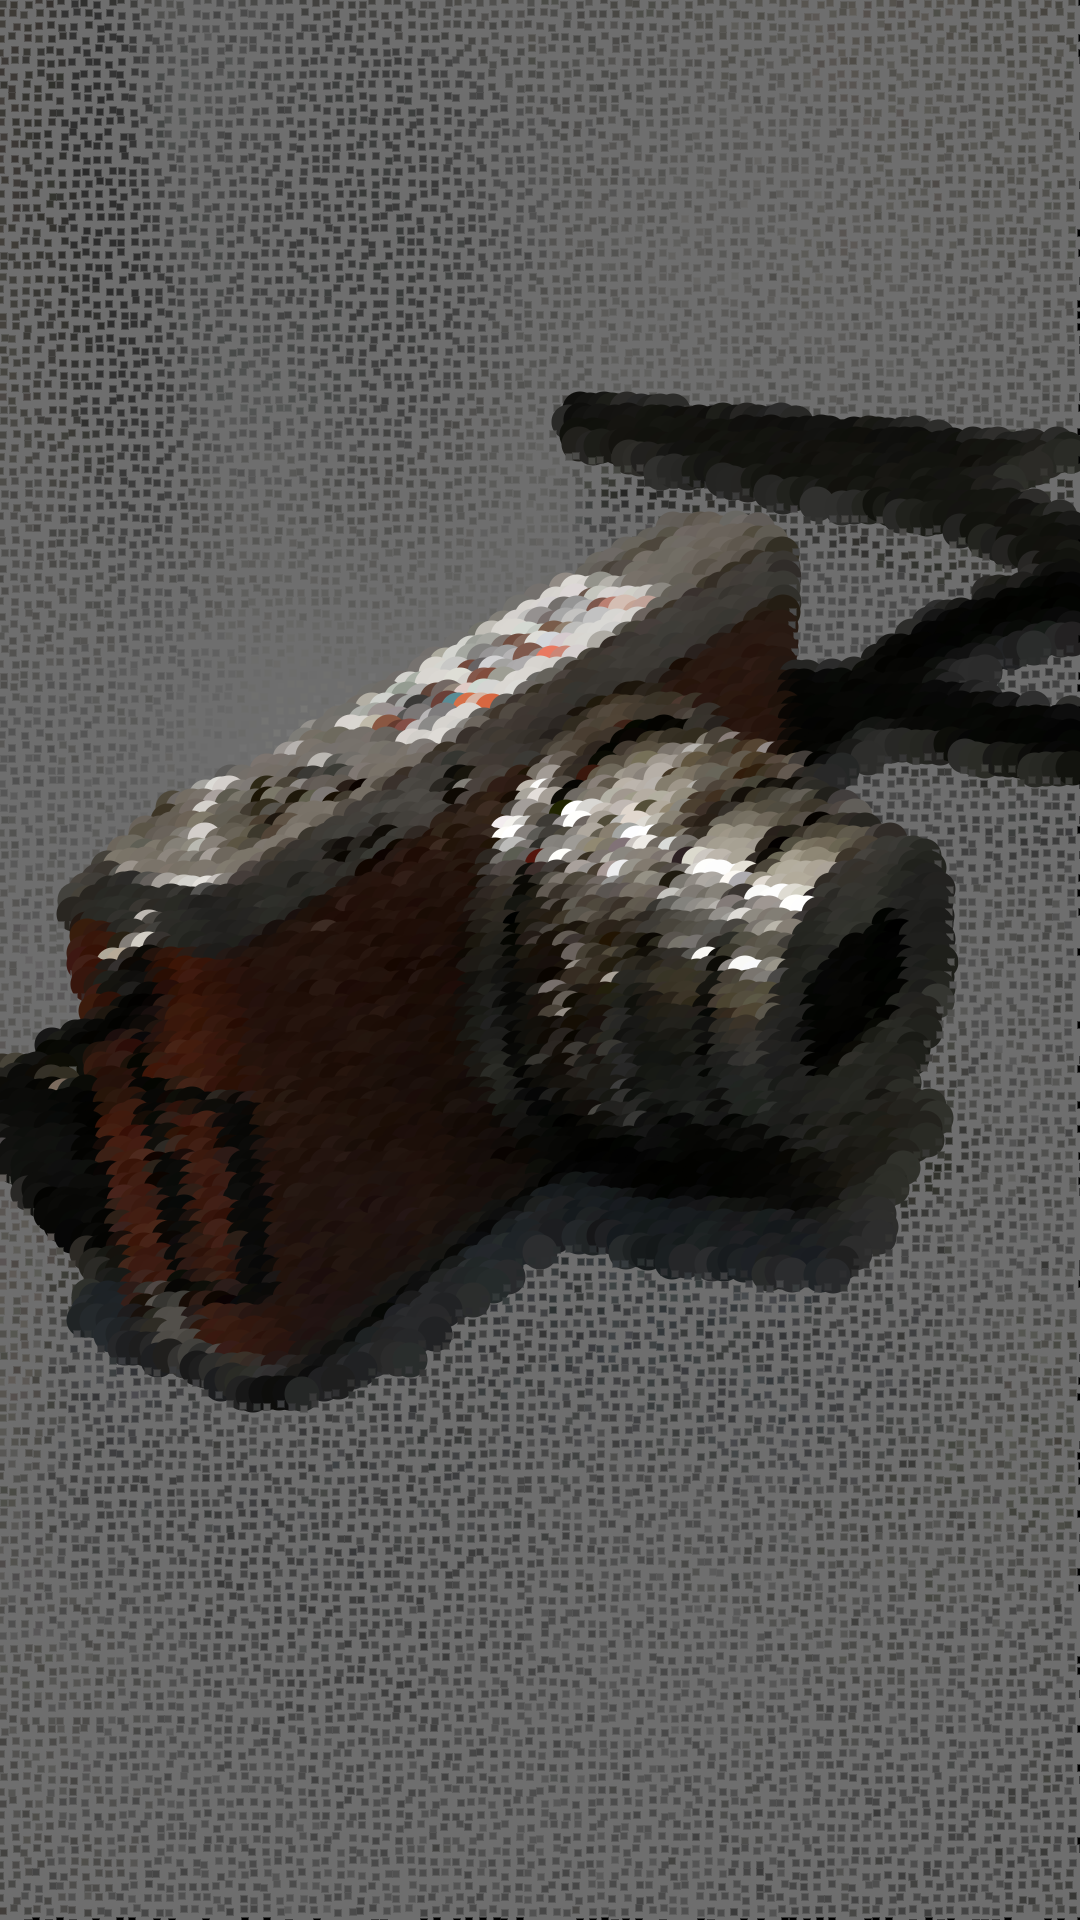
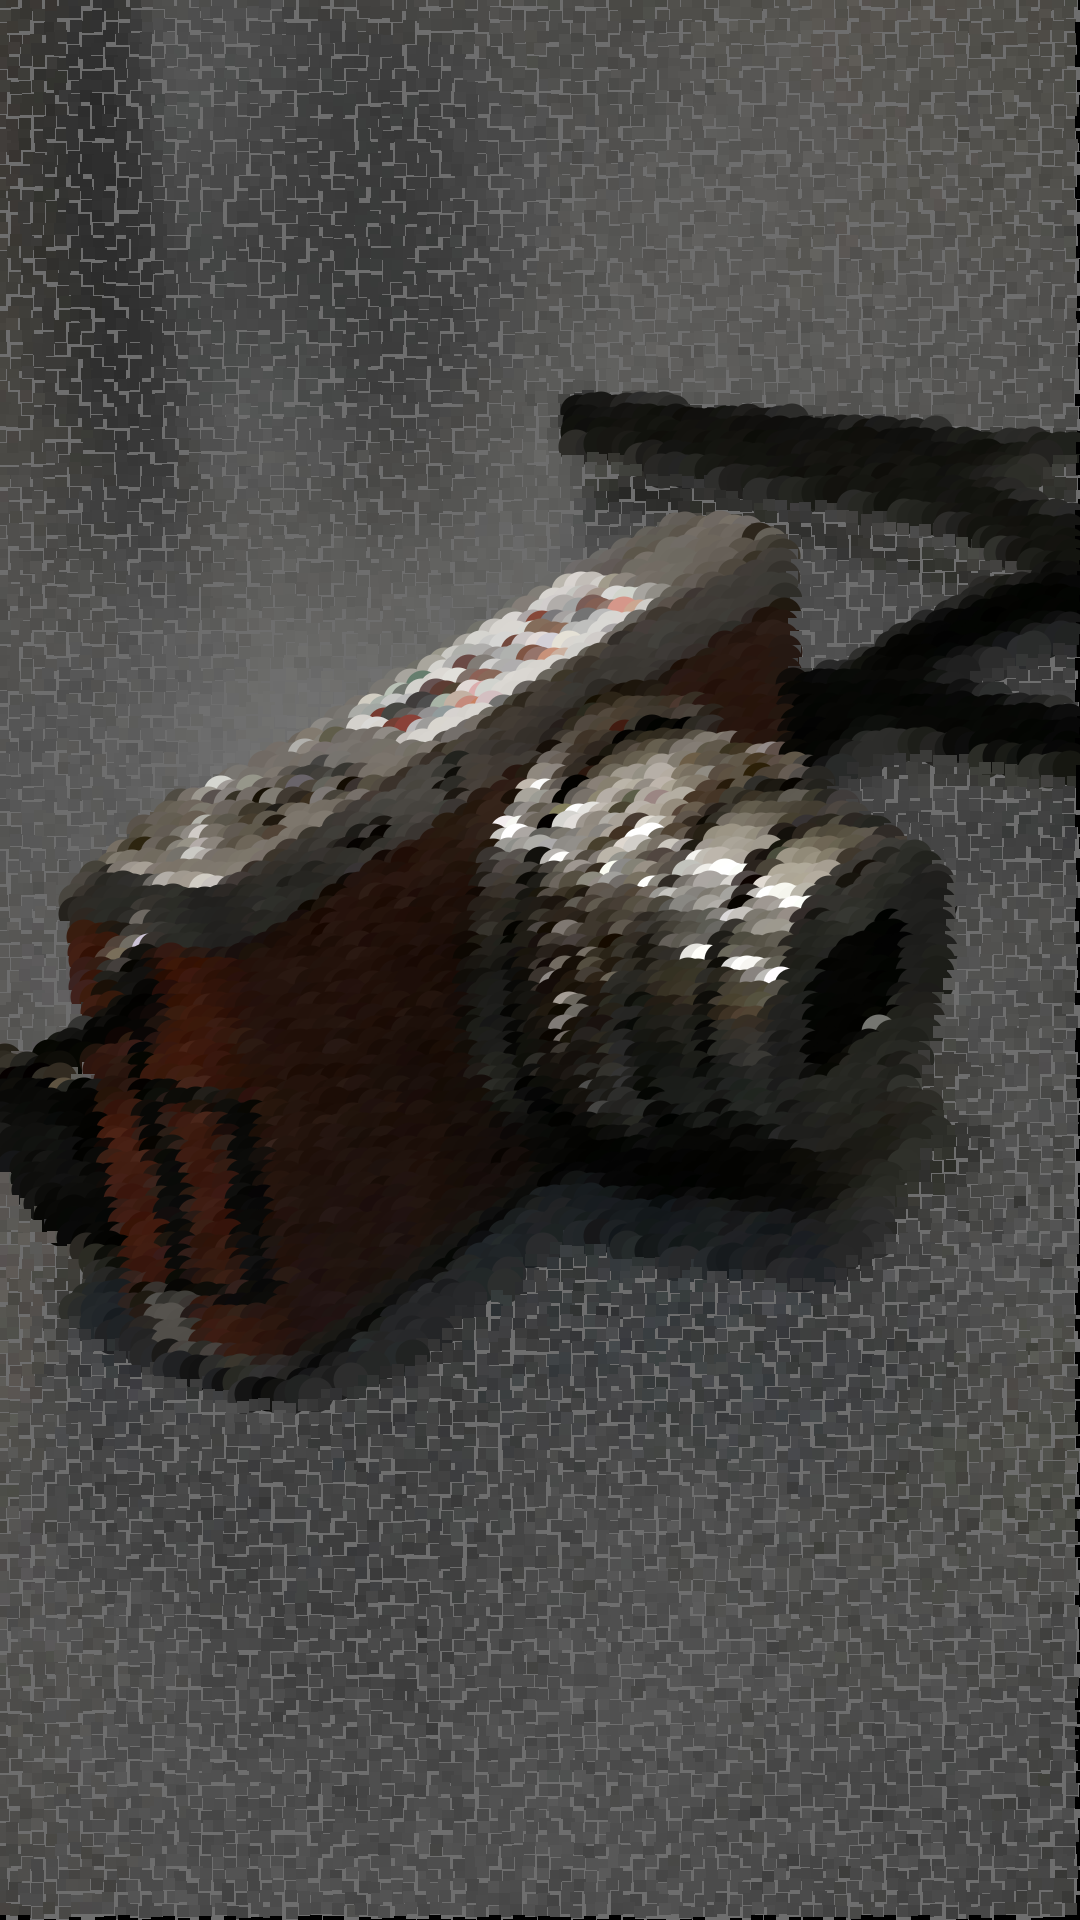
finalll

diff --git a/sketch.js b/sketch.js
@@ -4,7 +4,7 @@ const finalVersion = true;
 if (finalVersion) {
   elementSpacing = 12;
   circleSize = 35;
-  squareSize = 7;
+  squareSize = 12;
 }
 
 let sourceImg=null;

diff --git a/README.md b/README.md
@@ -1,2 +1,21 @@
-I wanted to make this commit to show what the other images would look like, with the same code used on 'Camera experiment 2'.
-I didn't wanted to use it for my final, because the background was too sparse.
+The theme of my project is about objects from my past, which when held, allow me to remember memories that I normally wouldn't have access to.
+
+
+Generally I wanted to create this fuzzy image, like a visual representation of what we see in our heads when thinking about memories. So despite not employing any 'outside the box' coding techniques, the simple ellipse and rectangle were what I wanted for my theme. I did experiments like adding color and changing the ellipses' shape, but the simplicity of the final image was more asthetically pleasing and fitting to the theme.
+
+
+I wanted to create cracks in the background, while not having cracks when drawing the object, to create separation between the areas.
+
+Using a background color of dark-grey allowed a brighter than black, but not as obtrusive as white(255) or another color.
+
+
+
+
+
+
+
+I thought about not using smartmasking, but I tried it on input_3, and found the smartmask was cleaner than if I used Photoshop.
+For example, the edges are cleaner with smartmasking, but with Photoshop the edges were jaggered.
+
+However, the smartmask couldn't identify the object in input_2. Also for input_1 it actually recognized the object as a teddy bear, but it didn't completely cover the bear.
+So I used a manual mask for image 1 & 2, but use a smartmask for image 3.
